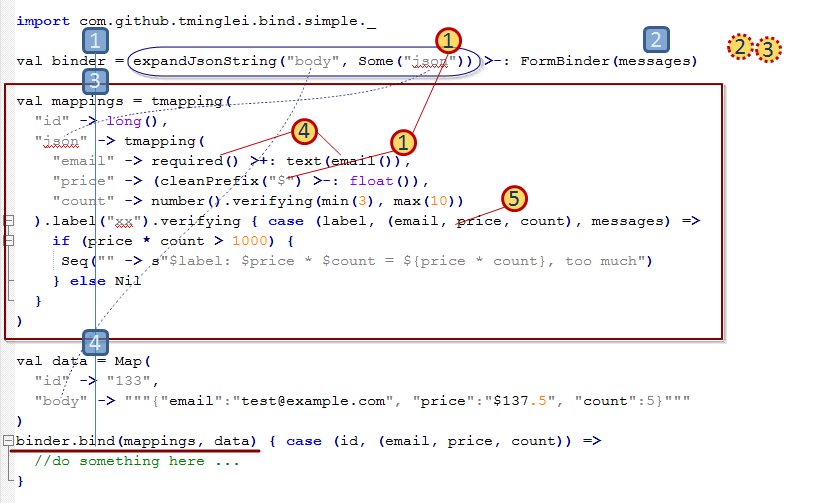
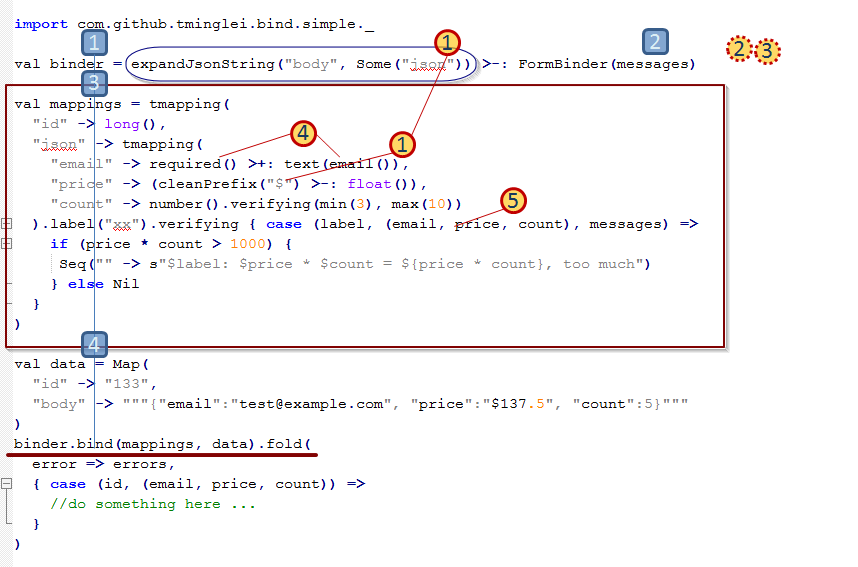
simplify - remove `bind` and rename `bindE` to `bind`

diff --git a/src/main/scala/com/github/tminglei/bind/README.md b/src/main/scala/com/github/tminglei/bind/README.md
@@ -15,17 +15,10 @@ The core of `form-binder` is `Mapping`, **tree structure** mappings. With **dept
 
 > _Check [here](https://github.com/tminglei/form-binder/blob/master/src/main/scala/com/github/tminglei/bind/Framework.scala) for framework details._
 
-binder **bind** method signature (consume result directly if validation passed):
-```scala
-//if validation passed, consume and return `R2`; 
-//if validation failed, return (maybe processed) errors
-def bind[T, R2, M <: InputMode](mapping: Mapping[T, M], data: Map[String, String])(consume: T => R2)
-```
-
-binder **bindE** method signature (return an `Either` and let user to continue processing):
+binder **bind** method signature (return an `Either` and let user to continue processing):
 ```scala
 //bind mappings to data, and return an either, which holds validation errors (left) or produced result (right)
-def bindE[T, M <: InputMode](mapping: Mapping[T, M], data: Map[String, String]): Either[R, T]
+def bind[T, M <: InputMode](mapping: Mapping[T, M], data: Map[String, String]): Either[R, T]
 ```
 
 binder **validate** method signature (_validate only_ and not consume converted data):
